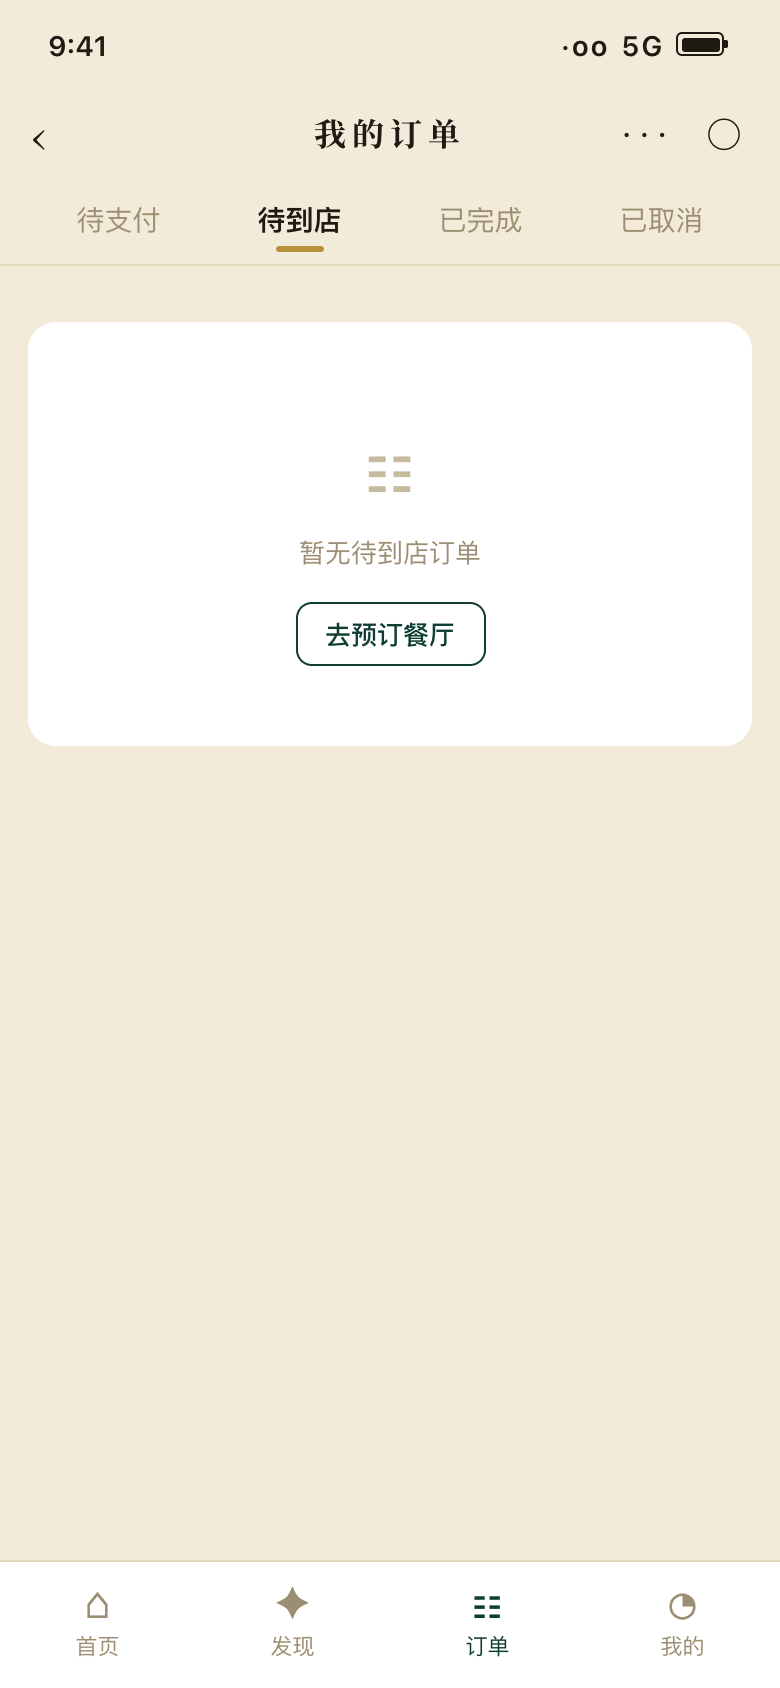
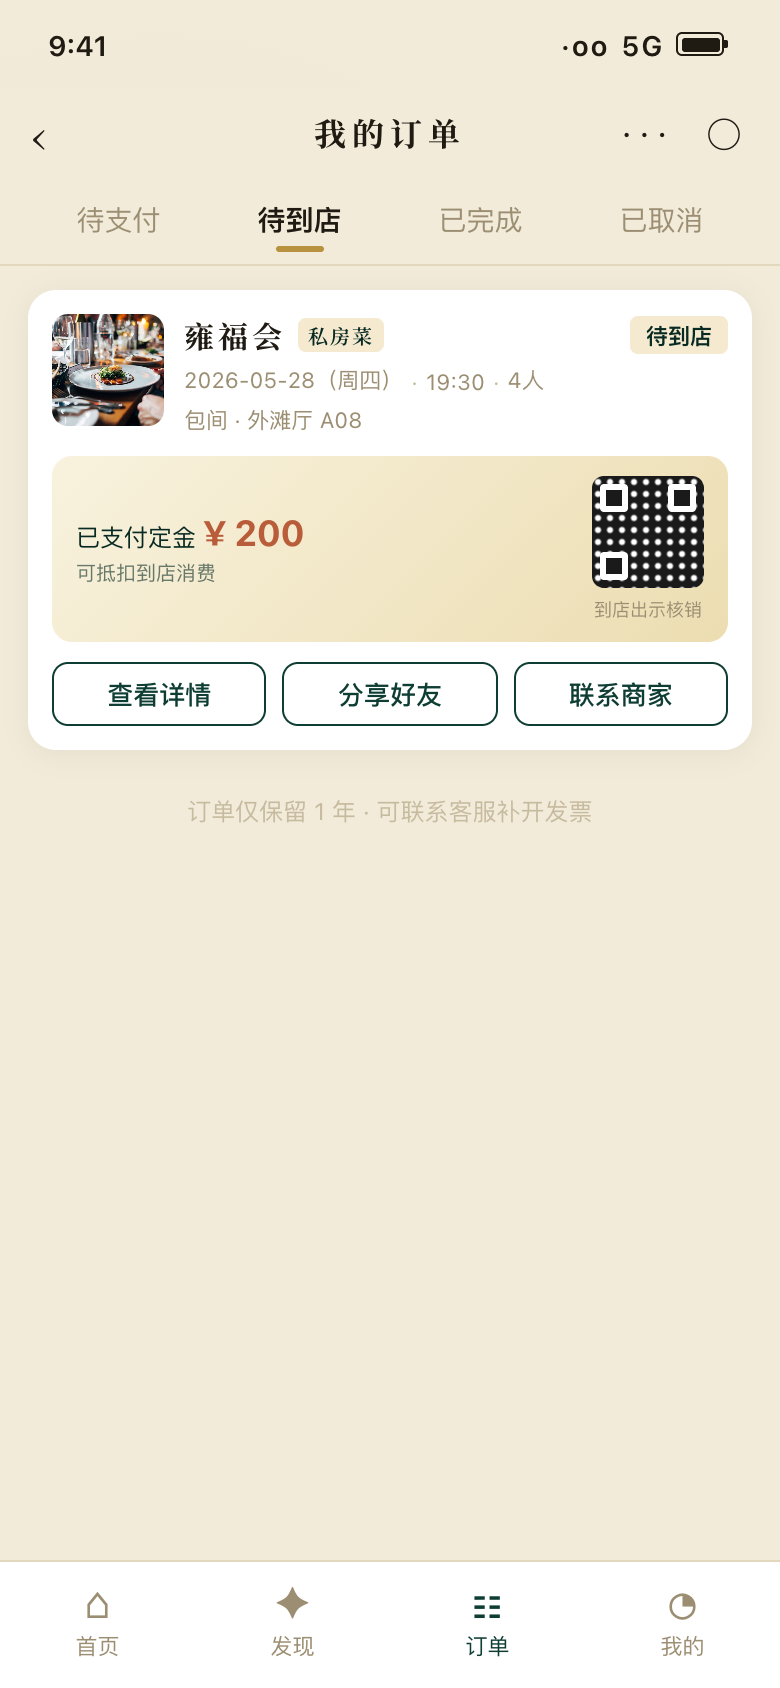
docs: 截图区改为 5 张 — 新增订单分享页与个人主页
- 末位换成「分享订单给好友」页（含分享渠道），新增个人主页（会员/积分/礼遇）
- 修复截图数据为空的根因：.env 缺 VITE_DEMO_USER_ID 导致订单/积分查询为空，
  订单列表截图一并更新为有数据版本

diff --git a/README.md b/README.md
@@ -20,12 +20,13 @@
 ## 📱 界面预览
 
 <p align="center">
-  <img src="screenshots/app-home.png" width="24%" alt="首页 · 发现餐厅" />
-  <img src="screenshots/app-restaurant.png" width="24%" alt="餐厅详情 · 菜单风招牌菜" />
-  <img src="screenshots/app-booking.png" width="24%" alt="预订 · 平面图选座" />
-  <img src="screenshots/app-orders.png" width="24%" alt="我的订单 · 核销码" />
+  <img src="screenshots/app-home.png" width="19%" alt="首页 · 发现餐厅" />
+  <img src="screenshots/app-restaurant.png" width="19%" alt="餐厅详情 · 菜单风招牌菜" />
+  <img src="screenshots/app-booking.png" width="19%" alt="预订 · 平面图选座" />
+  <img src="screenshots/app-share.png" width="19%" alt="订单分享 · 邀好友共聚" />
+  <img src="screenshots/app-profile.png" width="19%" alt="个人主页 · 会员与积分" />
 </p>
-<p align="center"><sub>首页 · 餐厅详情 · 平面图选座 · 我的订单（数据实时来自 Supabase）</sub></p>
+<p align="center"><sub>首页 · 餐厅详情 · 平面图选座 · 订单分享给好友 · 个人主页（数据实时来自 Supabase）</sub></p>
 
 ## 🌟 项目简介
 

diff --git a/README.en.md b/README.en.md
@@ -20,12 +20,13 @@
 ## 📱 Screenshots
 
 <p align="center">
-  <img src="screenshots/app-home.png" width="24%" alt="Home · Discover" />
-  <img src="screenshots/app-restaurant.png" width="24%" alt="Restaurant detail · Menu-style dishes" />
-  <img src="screenshots/app-booking.png" width="24%" alt="Booking · Floor-plan seat picker" />
-  <img src="screenshots/app-orders.png" width="24%" alt="My orders · Check-in QR" />
+  <img src="screenshots/app-home.png" width="19%" alt="Home · Discover" />
+  <img src="screenshots/app-restaurant.png" width="19%" alt="Restaurant detail · Menu-style dishes" />
+  <img src="screenshots/app-booking.png" width="19%" alt="Booking · Floor-plan seat picker" />
+  <img src="screenshots/app-share.png" width="19%" alt="Share booking with friends" />
+  <img src="screenshots/app-profile.png" width="19%" alt="Profile · Membership & points" />
 </p>
-<p align="center"><sub>Home · Restaurant detail · Floor-plan seat picker · My orders (live data from Supabase)</sub></p>
+<p align="center"><sub>Home · Restaurant detail · Floor-plan seat picker · Share with friends · Profile (live data from Supabase)</sub></p>
 
 ## 🌟 About
 
